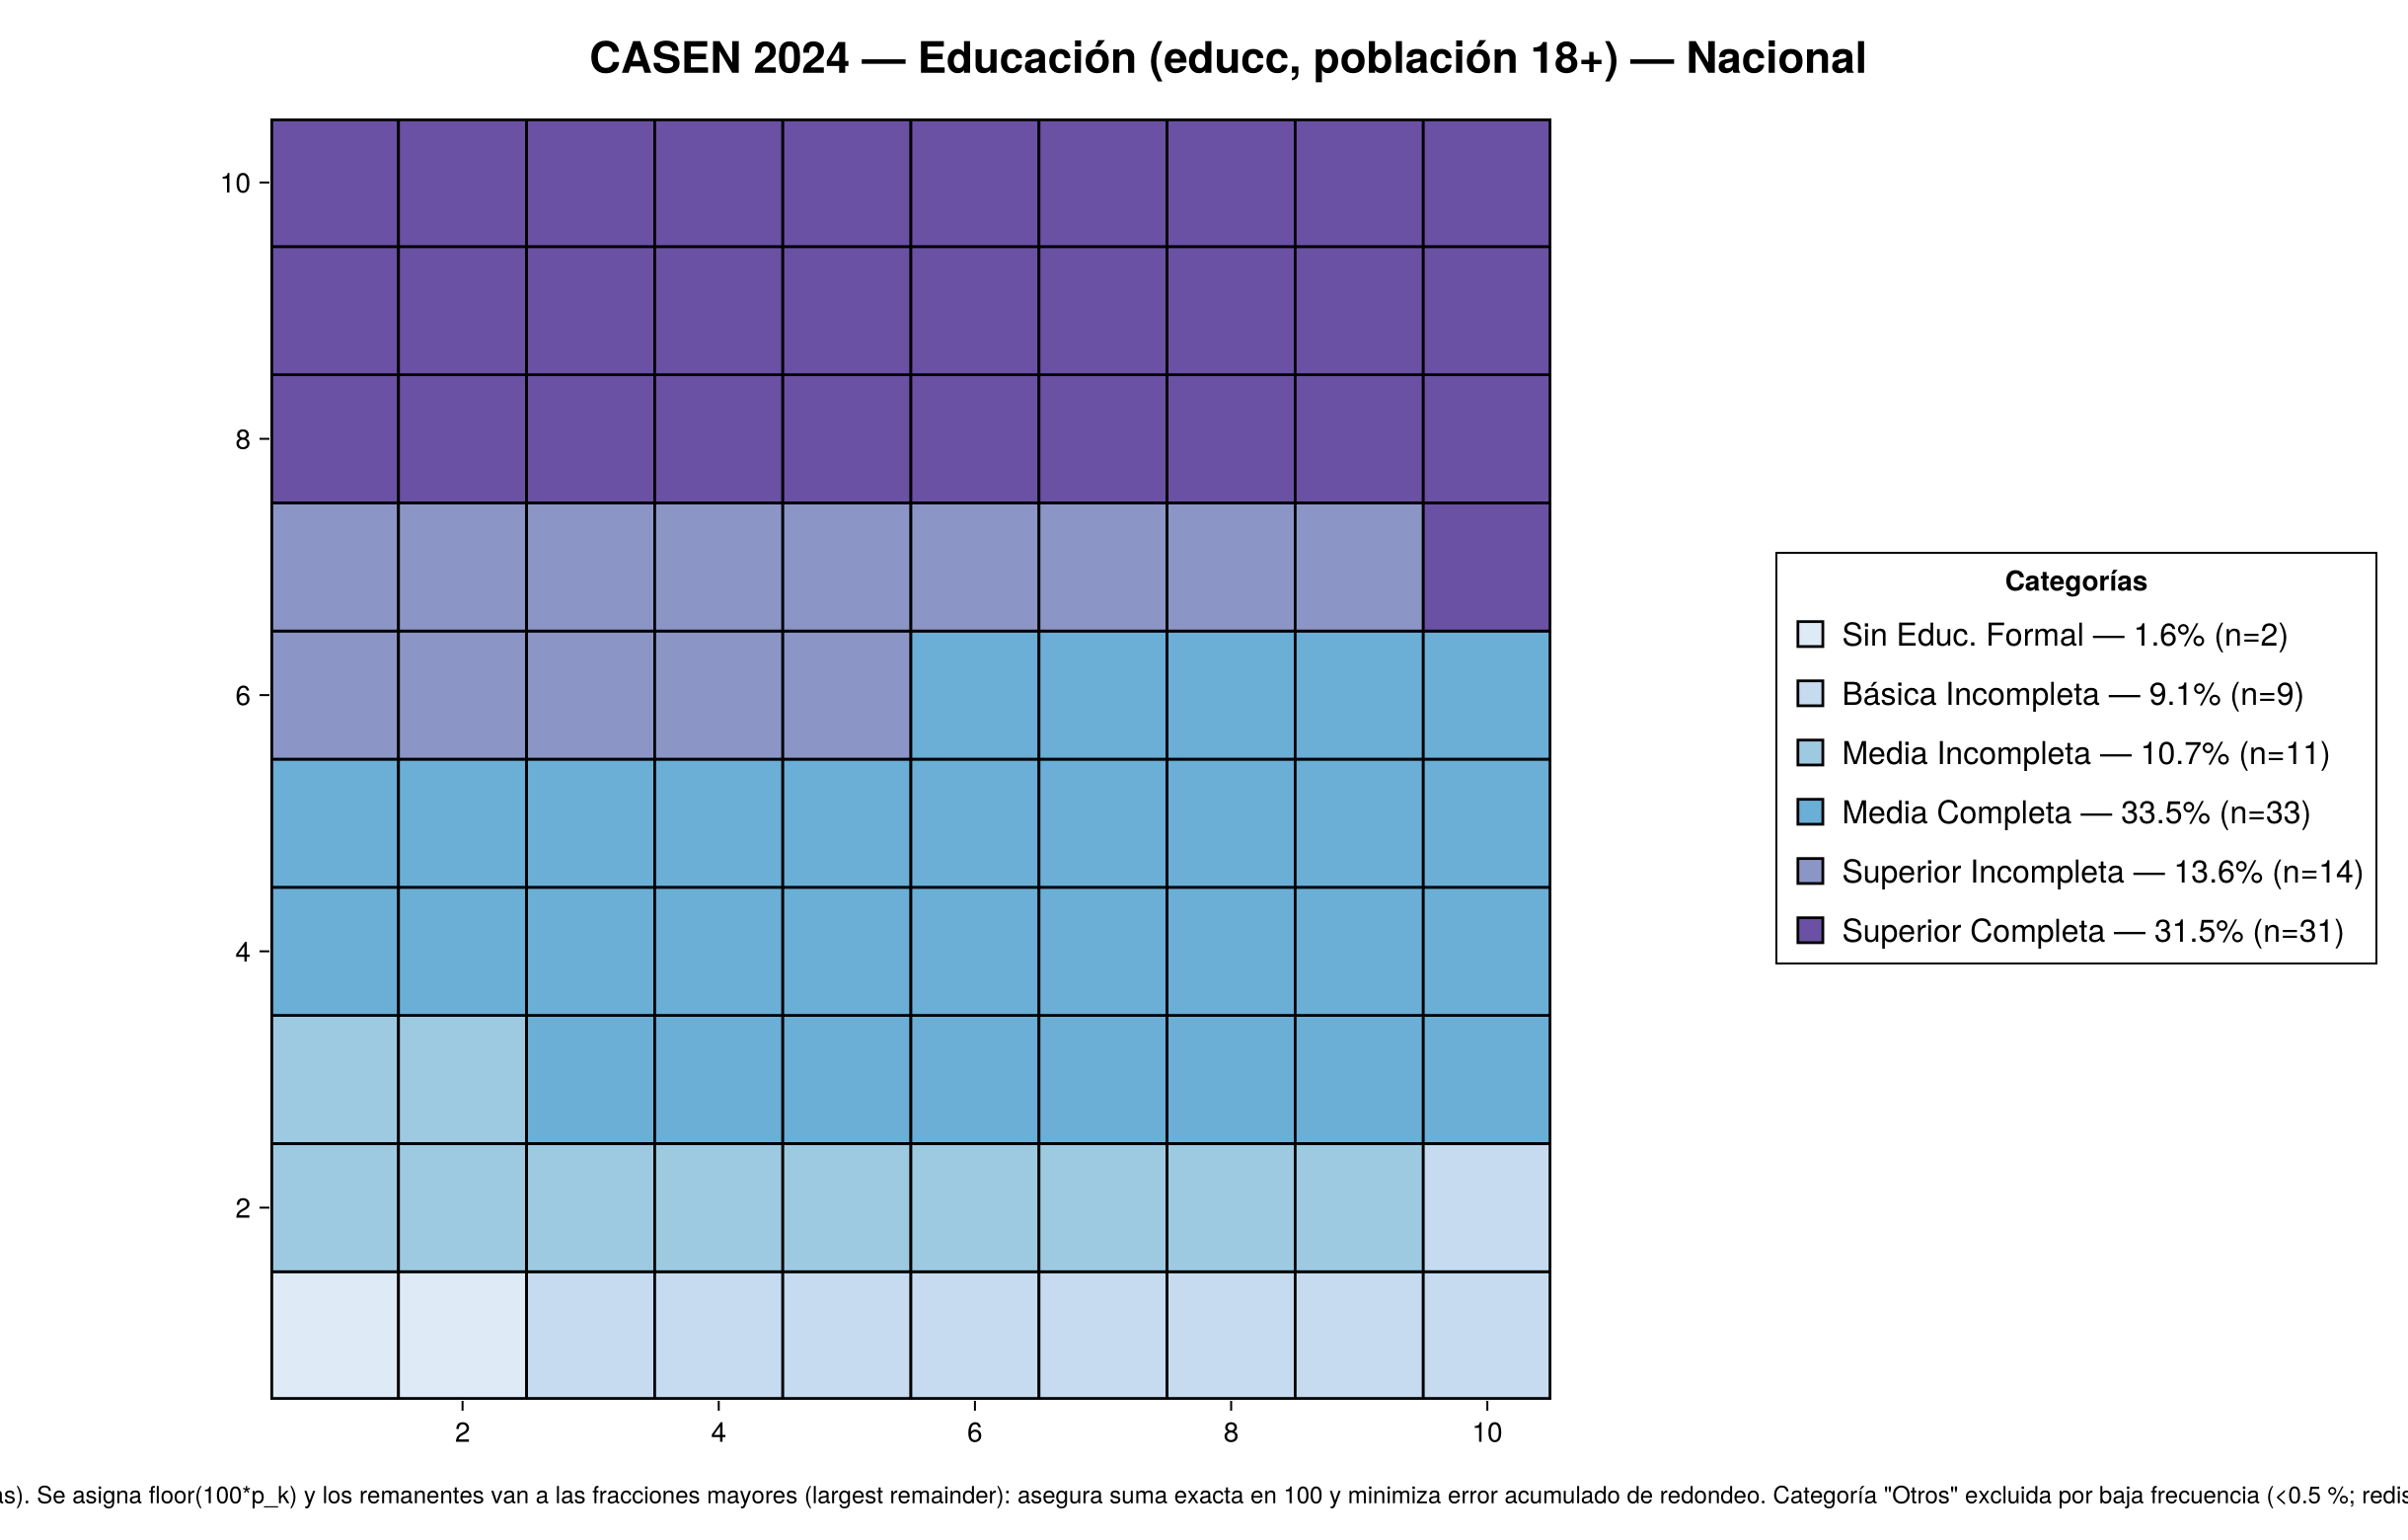
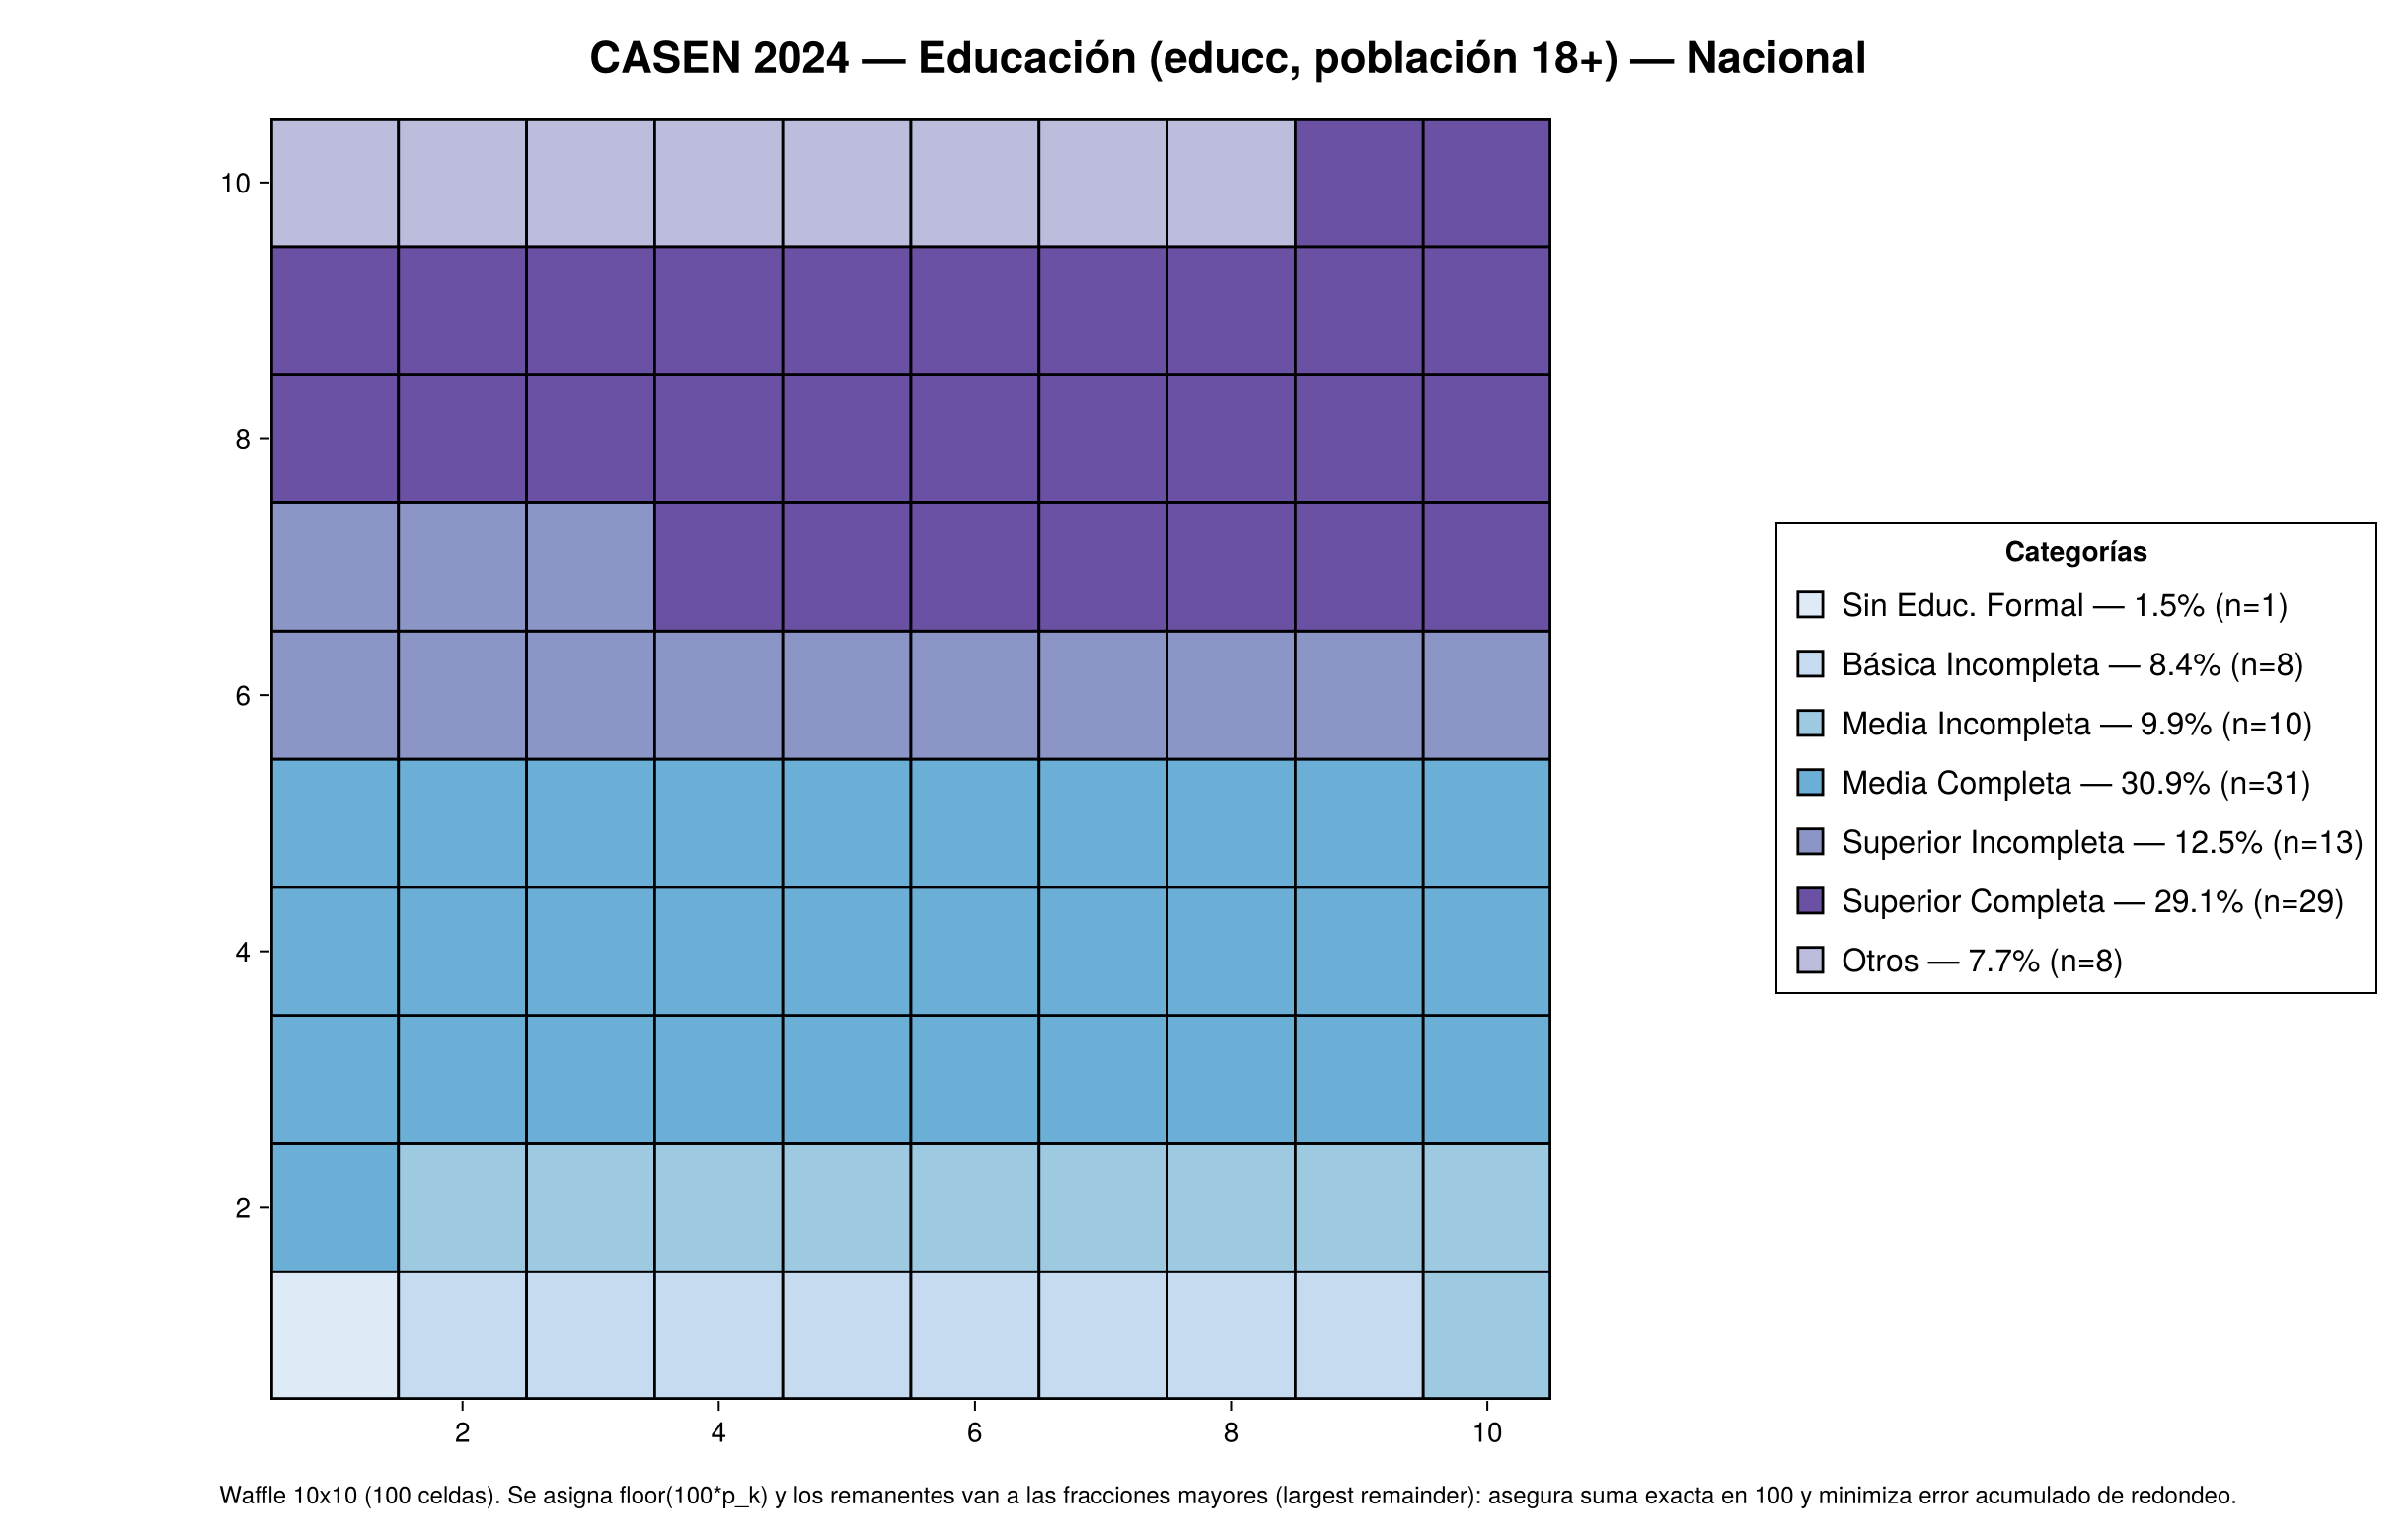
feat(julia): add English CASEN feed

diff --git a/_plugins/julia_feed.rb b/_plugins/julia_feed.rb
@@ -1,0 +1,69 @@
+# frozen_string_literal: true
+
+# jekyll-polyglot narrows site.posts to the active language. This generator
+# reads the source posts so the root-level JuliaBloggers feed can stay English.
+module JuliaFeed
+  class Generator < Jekyll::Generator
+    safe true
+    priority :lowest
+
+    def generate(site)
+      return unless site.active_lang == site.default_lang
+
+      collection = site.collections.fetch("posts")
+      site.data["julia_feed_posts"] = post_paths(collection).filter_map do |path|
+        document = Jekyll::Document.new(path, :site => site, :collection => collection)
+        document.read
+        next unless eligible?(document)
+
+        document.data["layout"] = "none"
+        rendered_content = document.renderer.run
+        url = absolute_url(site, localized_path(site, document))
+
+        {
+          "title" => document.data.fetch("title"),
+          "url" => url,
+          "date" => document.date,
+          "description" => document.data.fetch("description", ""),
+          "content" => absolutize_urls(rendered_content, site),
+        }
+      end.sort_by { |post| post.fetch("date") }.reverse
+    end
+
+    private
+
+    def post_paths(collection)
+      Dir.glob(File.join(collection.directory, "**", "*")).select do |path|
+        File.file?(path) && %w[.md .markdown .mkdown].include?(File.extname(path))
+      end
+    end
+
+    def eligible?(document)
+      document.data["lang"] == "en" &&
+        document.data["author"] == "clabra" &&
+        Array(document.data["tags"]).map { |tag| tag.to_s.downcase }.include?("julia")
+    end
+
+    def localized_path(site, document)
+      path = document.url
+      lang = document.data.fetch("lang", site.default_lang)
+      return path if lang == site.default_lang || path.start_with?("/#{lang}/")
+
+      "/#{lang}#{path.start_with?("/") ? path : "/#{path}"}"
+    end
+
+    def absolute_url(site, path)
+      root = "#{site.config.fetch("url")}#{site.config.fetch("baseurl", "")}".sub(%r{/$}, "")
+      "#{root}/#{path.sub(%r{^/}, "")}"
+    end
+
+    def absolutize_urls(content, site)
+      root = "#{site.config.fetch("url")}#{site.config.fetch("baseurl", "")}".sub(%r{/$}, "")
+      content
+        .gsub('href="/', "href=\"#{root}/")
+        .gsub('src="/', "src=\"#{root}/")
+        .gsub('srcset="/', "srcset=\"#{root}/")
+        .gsub("]]>", "]]]]><![CDATA[>")
+    end
+  end
+end

diff --git a/_posts/2026-03-15-casen2024-julia-waffles-politica-publica-en.md b/_posts/2026-03-15-casen2024-julia-waffles-politica-publica-en.md
@@ -32,16 +32,16 @@ gallery_nacional:
 gallery_regional:
   - url: /assets/images/casen2024-julia-waffles-politica-publica/regional_dotplot_educacion_educc.png
     image_path: /assets/images/casen2024-julia-waffles-politica-publica/regional_dotplot_educacion_educc.png
-    alt: "Chart 4: Dot plot of regional gaps in educational level by category, CASEN 2024. Each panel has its axis fitted to its own range; a hollow point marks the national reference."
-    title: "Chart 4 — Regional gaps in education: dot plot by category (axis fitted per panel, hollow point = national reference)"
+    alt: "Chart 4: Dot plot of regional gaps in educational level by category, CASEN 2024. Each panel has its axis fitted to its own range; dashed vertical line = national reference and grey band = national 95% CI."
+    title: "Chart 4 — Regional gaps in education: dot plot by category (axis fitted per panel, dashed line = national, band = 95% CI)"
   - url: /assets/images/casen2024-julia-waffles-politica-publica/regional_dotplot_salud_s13.png
     image_path: /assets/images/casen2024-julia-waffles-politica-publica/regional_dotplot_salud_s13.png
     alt: "Chart 5: Dot plot of regional gaps in the health insurance system by category, CASEN 2024. Axis fitted per panel with national reference."
-    title: "Chart 5 — Regional gaps in health: dot plot by category (axis fitted per panel, hollow point = national reference)"
+    title: "Chart 5 — Regional gaps in health: dot plot by category (axis fitted per panel, dashed line = national, band = 95% CI)"
   - url: /assets/images/casen2024-julia-waffles-politica-publica/regional_dotplot_trabajo_ingresos_pobreza.png
     image_path: /assets/images/casen2024-julia-waffles-politica-publica/regional_dotplot_trabajo_ingresos_pobreza.png
     alt: "Chart 6: Dot plot of regional gaps in income poverty, CASEN 2024. Axis fitted per panel with national reference."
-    title: "Chart 6 — Regional gaps in poverty: dot plot (axis fitted per panel, hollow point = national reference)"
+    title: "Chart 6 — Regional gaps in poverty: dot plot (axis fitted per panel, dashed line = national, band = 95% CI)"
 ---
 
 In Chile, **La Araucanía records 13.0% extreme poverty; Magallanes, 4.2%**. That is 8.8 percentage points of difference — and if a public agency at the central or local level (regional governments / municipalities) designs its intervention using only the national average (6.9%), or disregarding regional differences, it could get the allocation of resources or the distribution of its components wrong.
@@ -75,7 +75,7 @@ All results were checked against the official tables available in [BIDAT](https:
 | National rows compared | 16 |
 | Regional rows compared | 256 |
 
-The maximum observed difference is below 3 millionths of a percentage point, well within tolerance 😀. **The results are numerically identical to the official ones.**
+The maximum observed difference is below 3 millionths of a percentage point and within the preset tolerance. **The results match the official tables within the predefined tolerances.**
 
 ---
 
@@ -136,7 +136,7 @@ The following percentages correspond to proportions weighted with `expr`, valida
 
 ## Spoonful 2: the technical flow in Julia
 
-The pipeline runs end to end with `julia --project=. scripts/run_all.jl` (the orchestrator). The two most relevant pieces of code to reproduce and "audit" these results are the cell-allocation algorithm and the sampling-design specification (both in the GitLab/GitHub repository).
+The pipeline runs end to end with `julia --project=. scripts/run_all.jl` (the orchestrator). The two most relevant pieces of code to reproduce and "audit" these results are the cell-allocation algorithm and the sampling-design specification, available in the [public repository](https://github.com/tatanlabra/casen24_julia_viz).
 
 ### Taylor linearization: SE and CI of the complex design
 
@@ -157,7 +157,7 @@ ci_lo = clamp(p̂ - 1.96 * se, 0.0, 1.0)
 ci_hi = clamp(p̂ + 1.96 * se, 0.0, 1.0)
 ```
 
-All PSUs of the design are used (including those outside the domain, with $z_j = 0$), which is correct for random-domain estimation. The median regional SE is **1.66 pp** of CI width; the maximum is **5.76 pp** (small regions with low-prevalence categories).
+All PSUs of the design are used (including those outside the domain, with $z_j = 0$), which is correct for random-domain estimation. The median regional 95% CI width is **1.66 pp**; the maximum is **5.76 pp** (small regions with low-prevalence categories).
 
 > **Next entry, at some point 👀 — Jackknife and Bootstrap for CASEN as a contrast:** TSL is an optimal first-order approximation for means and proportions, but for non-linear statistics (Gini, medians, quantile ratios) it can under-estimate the variance. The [code repository](https://github.com/tatanlabra/casen24_julia_viz/blob/main/docs/ic-varianza-casen.md) includes the theory and the in-progress Julia code to contrast TSL with Jackknife (delete-1) and Bootstrap — a future entry in this series, which I have not reviewed in depth.
 
@@ -208,9 +208,9 @@ Each waffle represents 100 cells allocated by largest remainder over the weighte
 
 ### Regional gaps (Charts 4–6)
 
-Each panel uses an **axis fitted to the range of its own category** (not a shared global scale), which makes it possible to visualize differences that flatten out if all categories share the same axis. The **horizontal bars** are 95% CIs computed by Taylor linearization. The hollow point (○) marks the national reference in each panel (with its CI).
+Each panel uses an **axis fitted to the range of its own category** (not a shared global scale), which makes it possible to visualize differences that flatten out if all categories share the same axis. The **horizontal bars** are 95% CIs computed by Taylor linearization; the dashed vertical line marks the national estimate and the pale grey band its 95% CI.
 
-{% include gallery id="gallery_regional" layout="third" caption="**Charts 4–6** — Regional gaps with 95% CIs (Taylor linearization, complex design): education, health and poverty. Bars = 95% CI; hollow point (○) = national reference. Axis fitted per category. Click to enlarge." %}
+{% include gallery id="gallery_regional" layout="third" caption="**Charts 4–6** — Regional gaps with 95% CIs (Taylor linearization, complex design): education, health and poverty. Bars = regional 95% CI; dashed line = national estimate; grey band = national 95% CI. Axis fitted per category. Click to enlarge." %}
 
 ### Gaps with 95% CIs — all statistically robust
 

diff --git a/_posts/2026-03-15-casen2024-julia-waffles-politica-publica.md b/_posts/2026-03-15-casen2024-julia-waffles-politica-publica.md
@@ -32,16 +32,16 @@ gallery_nacional:
 gallery_regional:
   - url: /assets/images/casen2024-julia-waffles-politica-publica/regional_dotplot_educacion_educc.png
     image_path: /assets/images/casen2024-julia-waffles-politica-publica/regional_dotplot_educacion_educc.png
-    alt: "Gráfico 4: Dot plot de brechas regionales en nivel educacional por categoría, CASEN 2024. Cada panel tiene eje ajustado a su rango; punto vacío indica referencia nacional."
-    title: "Gráfico 4 — Brechas regionales en educación: dot plot por categoría (eje ajustado por panel, punto vacío = referencia nacional)"
+    alt: "Gráfico 4: Dot plot de brechas regionales en nivel educacional por categoría, CASEN 2024. Cada panel tiene eje ajustado a su rango; línea vertical punteada = referencia nacional y banda gris = IC 95 % nacional."
+    title: "Gráfico 4 — Brechas regionales en educación: dot plot por categoría (eje ajustado por panel, línea punteada = nacional, banda = IC 95 %)"
   - url: /assets/images/casen2024-julia-waffles-politica-publica/regional_dotplot_salud_s13.png
     image_path: /assets/images/casen2024-julia-waffles-politica-publica/regional_dotplot_salud_s13.png
     alt: "Gráfico 5: Dot plot de brechas regionales en sistema previsional de salud por categoría, CASEN 2024. Eje ajustado por panel con referencia nacional."
-    title: "Gráfico 5 — Brechas regionales en salud: dot plot por categoría (eje ajustado por panel, punto vacío = referencia nacional)"
+    title: "Gráfico 5 — Brechas regionales en salud: dot plot por categoría (eje ajustado por panel, línea punteada = nacional, banda = IC 95 %)"
   - url: /assets/images/casen2024-julia-waffles-politica-publica/regional_dotplot_trabajo_ingresos_pobreza.png
     image_path: /assets/images/casen2024-julia-waffles-politica-publica/regional_dotplot_trabajo_ingresos_pobreza.png
     alt: "Gráfico 6: Dot plot de brechas regionales en pobreza por ingresos, CASEN 2024. Eje ajustado por panel con referencia nacional."
-    title: "Gráfico 6 — Brechas regionales en pobreza: dot plot (eje ajustado por panel, punto vacío = referencia nacional)"
+    title: "Gráfico 6 — Brechas regionales en pobreza: dot plot (eje ajustado por panel, línea punteada = nacional, banda = IC 95 %)"
 ---
 
 En Chile, **La Araucanía registra 13.0% de pobreza extrema; Magallanes, 4.2%**. Son 8.8 puntos porcentuales de diferencia — y si un servicio público de nivel central o local (GOREs/Municipios) diseñan su intervención usando solo el promedio nacional (6.9%), o despreciando las diferencias regionales, podrían equivocarse en asignar recursos o distribuir sus componentes.
@@ -75,7 +75,7 @@ Todos los resultados fueron contrastados contra las tablas oficiales disponibles
 | Filas comparadas nacional | 16 |
 | Filas comparadas regional | 256 |
 
-La diferencia máxima observada es inferior a 3 millonésimas de punto porcentual, tolerable 😀. **Los resultados son numéricamente idénticos a los oficiales.**
+La diferencia máxima observada es inferior a 3 millonésimas de punto porcentual y está dentro de la tolerancia definida. **Los resultados coinciden con las tablas oficiales dentro de las tolerancias predefinidas.**
 
 ---
 
@@ -136,7 +136,7 @@ Los porcentajes siguientes corresponden a proporciones ponderadas con `expr`, va
 
 ## Cucharada 2: el flujo técnico en Julia
 
-El pipeline corre de punta a punta con `julia --project=. scripts/run_all.jl` (orquestador). Las dos piezas de código más relevantes para reproducir y "auditar" estos resultados son el algoritmo de asignación de celdas y la especificación del diseño muestral (ambos en el repositorio de gitlab/github).
+El pipeline corre de punta a punta con `julia --project=. scripts/run_all.jl` (orquestador). Las dos piezas de código más relevantes para reproducir y "auditar" estos resultados son el algoritmo de asignación de celdas y la especificación del diseño muestral, disponibles en el [repositorio público](https://github.com/tatanlabra/casen24_julia_viz).
 
 ### Taylor linearization: SE e IC del diseño complejo
 
@@ -157,7 +157,7 @@ ci_lo = clamp(p̂ - 1.96 * se, 0.0, 1.0)
 ci_hi = clamp(p̂ + 1.96 * se, 0.0, 1.0)
 ```
 
-Se usan todos los PSU del diseño (incluidos los fuera del dominio, con $z_j = 0$), lo que es correcto para estimación de dominio aleatorio. El SE mediano regional es **1.66 pp** de ancho de IC; el máximo es **5.76 pp** (regiones pequeñas con categorías de baja prevalencia).
+Se usan todos los PSU del diseño (incluidos los fuera del dominio, con $z_j = 0$), lo que es correcto para estimación de dominio aleatorio. La mediana del ancho de los IC regionales es **1.66 pp**; el máximo es **5.76 pp** (regiones pequeñas con categorías de baja prevalencia).
 
 > **Próxima entrada, en algún momento 👀 — Jackknife y Bootstrap para CASEN como contraste:** TSL es una aproximación de primer orden óptima para medias y proporciones, pero para estadísticos no lineales (Gini, medianas, razones de cuantiles) puede sub-estimar la varianza. El [repositorio de código](https://github.com/tatanlabra/casen24_julia_viz/blob/main/docs/ic-varianza-casen.md) incluye la teoría y el código Julia en desarrollo para contrastar TSL con Jackknife (delete-1) y Bootstrap — entrada futura de esta serie, no lo he revisado en profundidad.
 
@@ -208,9 +208,9 @@ Cada waffle representa 100 celdas asignadas por "largest remainder" sobre las pr
 
 ### Brechas regionales (Gráficos 4–6)
 
-Cada panel usa un **eje ajustado al rango de su propia categoría** (no escala global compartida), lo que permite visualizar diferencias que se aplanan si todas las categorías comparten el mismo eje. Las **barras horizontales** son IC 95 % calculados por Taylor linearization. El punto vacío (○) marca la referencia nacional en cada panel (con su CI).
+Cada panel usa un **eje ajustado al rango de su propia categoría** (no escala global compartida), lo que permite visualizar diferencias que se aplanan si todas las categorías comparten el mismo eje. Las **barras horizontales** son IC 95 % calculados por Taylor linearization; la línea vertical punteada marca la estimación nacional y la banda gris tenue su IC 95 %.
 
-{% include gallery id="gallery_regional" layout="third" caption="**Gráficos 4–6** — Brechas regionales con IC 95 % (Taylor linearization, diseño complejo): educación, salud y pobreza. Barras = IC 95 %; punto vacío (○) = referencia nacional. Eje ajustado por categoría. Clic para ampliar." %}
+{% include gallery id="gallery_regional" layout="third" caption="**Gráficos 4–6** — Brechas regionales con IC 95 % (Taylor linearization, diseño complejo): educación, salud y pobreza. Barras = IC 95 % regional; línea punteada = estimación nacional; banda gris = IC 95 % nacional. Eje ajustado por categoría. Clic para ampliar." %}
 
 ### Brechas con IC 95 % — todas estadísticamente robustas
 